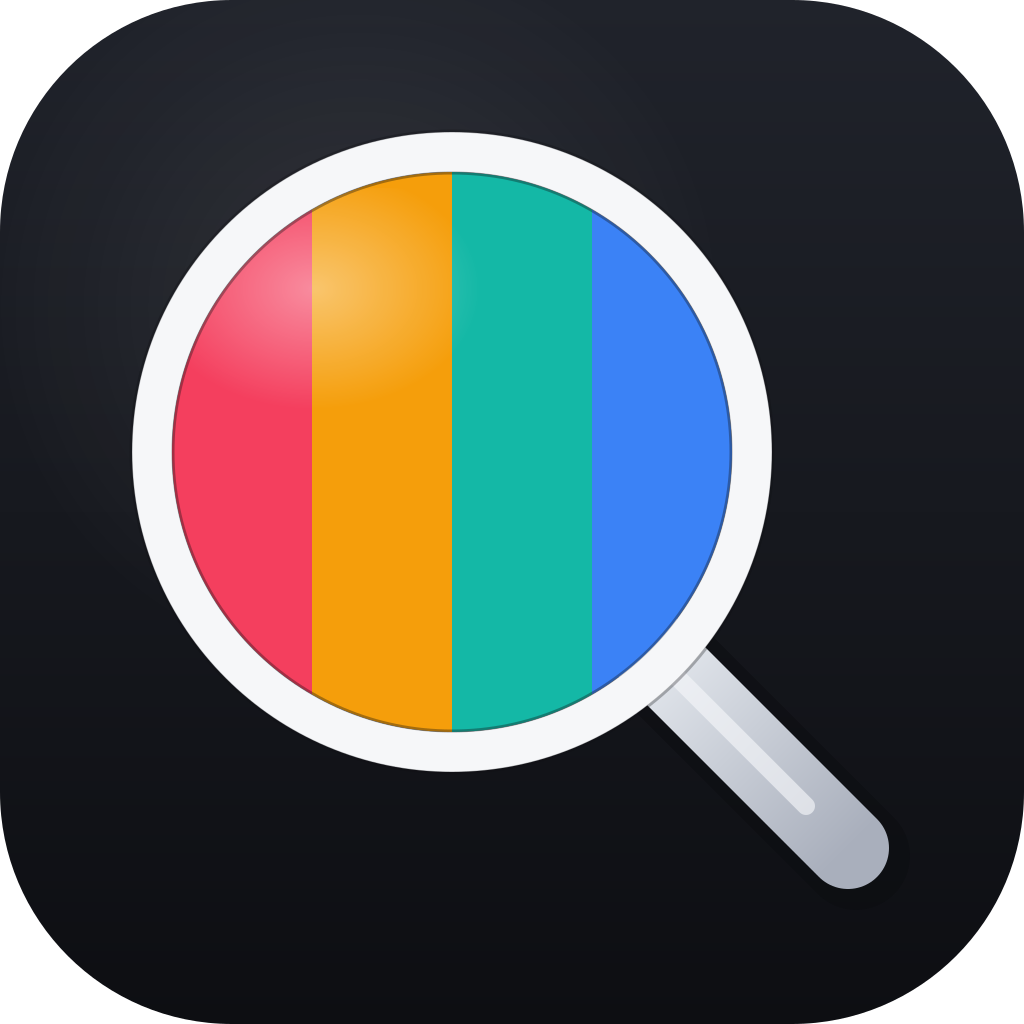
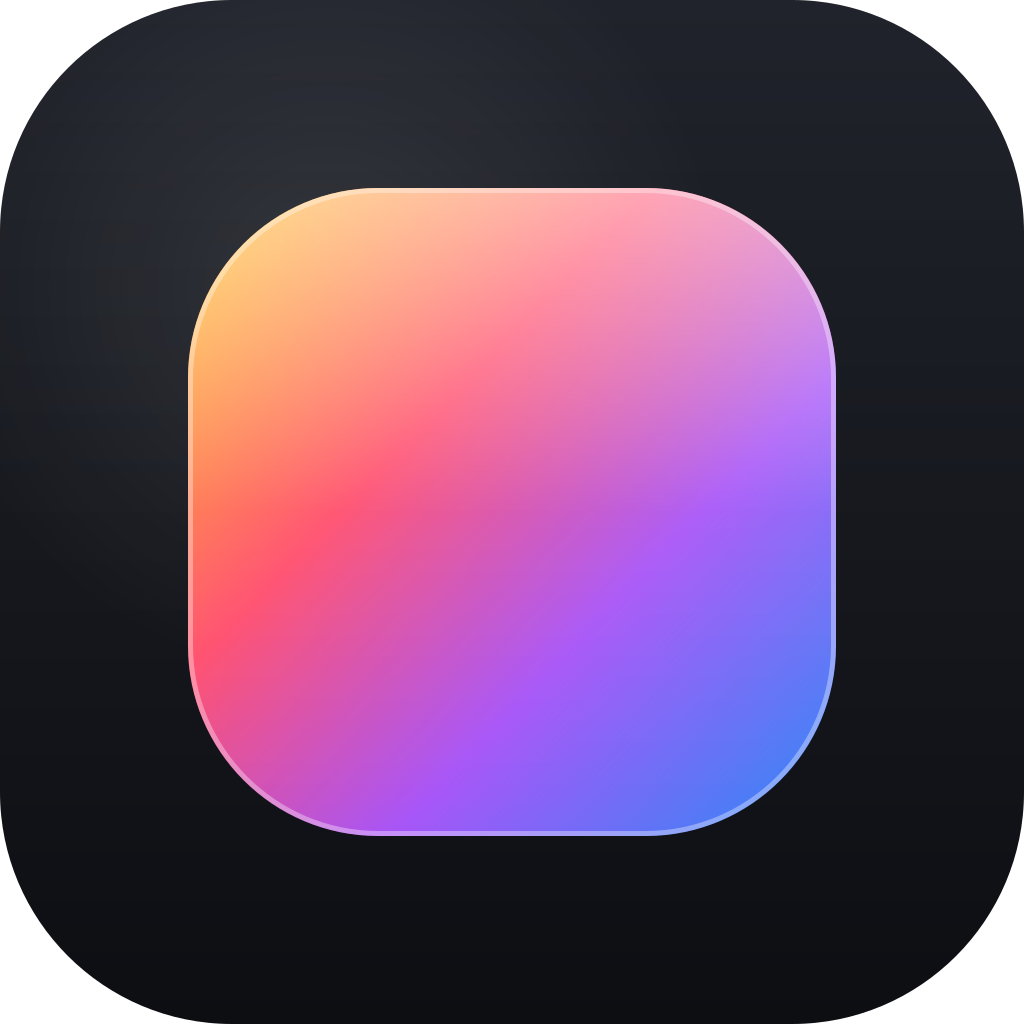
release: v0.2.0 — 新品牌图标（光谱方块）+ 仅发 Apple Silicon(arm64)，移除 x64 未签名包与 CI

diff --git a/docs/index.html b/docs/index.html
@@ -115,7 +115,7 @@
   /* gallery mock */
   .mg-top{display:flex;align-items:center;gap:14px;padding:13px 18px;border-bottom:1px solid var(--line)}
   .mg-brand{display:flex;align-items:center;gap:9px;font-weight:700;font-size:15px;white-space:nowrap}
-  .mg-brand .lg{width:22px;height:22px;border-radius:7px;background:conic-gradient(from 210deg,#ff9f0a,#ff375f,#bf5af2,#0a84ff);box-shadow:0 1px 4px rgba(0,0,0,.5)}
+  .mg-brand .lg{width:22px;height:22px;border-radius:7px;display:block;box-shadow:0 1px 4px rgba(0,0,0,.5)}
   .mg-brand .sub{font-weight:500;font-size:12.5px;color:var(--fg3);border-left:1px solid var(--line);padding-left:9px}
   .mg-search{flex:1;min-width:0;height:34px;display:flex;align-items:center;padding:0 14px;color:var(--fg3);font-size:12.5px;background:var(--fill);border:1px solid var(--line);border-radius:10px;overflow:hidden;white-space:nowrap}
   .mg-actions{display:flex;align-items:center;gap:9px}
@@ -182,17 +182,17 @@
       <h1>把<span class="g">好看的网页</span>，<br>提炼成可复用的设计资产</h1>
       <p class="lead">Haokan 从任意网站抽取真实的颜色、字体、间距、圆角、阴影与动效，去噪成一套 <b style="color:var(--fg)">设计 token（.stylepack）</b>，用来约束 AI 编码工具的产出，从源头消除“AI 味”。</p>
       <div class="cta">
-        <a class="btn primary lg" href="https://github.com/DamonAmber/haokan-design/releases/latest" target="_blank" rel="noopener">⤓ 下载 macOS 版（.dmg）</a>
+        <a class="btn primary lg" href="https://github.com/DamonAmber/haokan-design/releases/latest" target="_blank" rel="noopener">⤓ 下载 macOS 版（Apple Silicon）</a>
         <a class="btn lg" href="https://github.com/DamonAmber/haokan-design" target="_blank" rel="noopener">在 GitHub 查看源码</a>
       </div>
-      <div class="subnote">macOS · 应用未签名，首次打开请右键点图标选“打开”，或运行 <code>xattr -dr com.apple.quarantine /Applications/Haokan.app</code>。也可用 CLI：<code>node src/cli.js &lt;url&gt;</code></div>
+      <div class="subnote">macOS · 仅 Apple Silicon（arm64），已由 Developer ID 签名并公证，下载后可直接打开。也可用 CLI：<code>node src/cli.js &lt;url&gt;</code></div>
     </section>
 
     <div class="shot">
       <div class="mock mock-gallery" role="img" aria-label="Haokan 设计资产库画廊界面示意">
         <div class="mock-bar"><span class="tl r"></span><span class="tl y"></span><span class="tl g"></span></div>
         <div class="mg-top">
-          <div class="mg-brand"><span class="lg"></span>Haokan<span class="sub">设计资产库</span></div>
+          <div class="mg-brand"><img class="lg" src="assets/icon.svg" alt=""/>Haokan<span class="sub">设计资产库</span></div>
           <div class="mg-search">搜索名称 / 来源 / 标签 / 风格描述…</div>
           <div class="mg-actions">
             <span class="mg-b primary">＋ 从 URL 提炼</span>
@@ -309,7 +309,7 @@
         <h2>现在就试试</h2>
         <p>下载桌面版，或 clone 仓库用 CLI 提炼你喜欢的第一个网站。</p>
         <div class="cta">
-          <a class="btn primary lg" href="https://github.com/DamonAmber/haokan-design/releases/latest" target="_blank" rel="noopener">⤓ 下载 macOS 版（.dmg）</a>
+          <a class="btn primary lg" href="https://github.com/DamonAmber/haokan-design/releases/latest" target="_blank" rel="noopener">⤓ 下载 macOS 版（Apple Silicon）</a>
           <a class="btn lg" href="https://github.com/DamonAmber/haokan-design#readme" target="_blank" rel="noopener">阅读文档</a>
         </div>
       </div>
